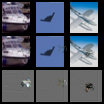
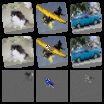
fix v2

diff --git a/main.py b/main.py
@@ -39,12 +39,12 @@ print(f"Selected device: {DEVICE}")
 
 # Training parameters
 BATCH_SIZE = 256
-LR         = 0.001
-EPOCHS     = 50
+LR         = 0.005
+EPOCHS     = 3
 LR_STEPS   = [35, 45]
 
 # Backdoor parameters
-TARGET_CLASS = 0
+TARGET_CLASS = 3
 POISON_RATIO = 0.05
 STRENGTH     = 1.0
 IMAGE_SIZE   = 32
@@ -68,7 +68,7 @@ if __name__ == "__main__":
     )
 
     # Sets optimization
-    optimizer = optim.SGD(model.parameters(), lr = LR)
+    optimizer = optim.SGD(model.parameters(), lr = LR, weight_decay=5e-4)
     criterion = nn.CrossEntropyLoss(reduction = "sum")
 
     # Optimization if IPEX is available
@@ -169,7 +169,7 @@ if __name__ == "__main__":
             data, labels = data.to(DEVICE), labels.to(DEVICE)
             data         = test_transforms(data)
             # Injects backdoor
-            data, labels, _ = backdoor.inject_backdoor(data, labels)
+            data, labels, _ = backdoor.inject_backdoor(data, labels, test = True)
             # Forward pass
             predictions = model(data)
             # Records accuracy
@@ -181,4 +181,4 @@ if __name__ == "__main__":
     print(f"[Test phase] Attack Success Rate {attack_success_rate*100:.2f}%")
 
     # Saves weights
-    torch.save(model.detach().cpu().state_dict(), "checkpoints/backdoored_model.pth")
+    torch.save(model.state_dict(), "checkpoints/backdoored_model.pth")

diff --git a/backdoor/backdoor.py b/backdoor/backdoor.py
@@ -107,13 +107,16 @@ class bait_backdoor():
         _, poison_trigger, _ = self.inpainter(data * (1 - mask), mask.clone())
         return poison_trigger
 
-    def inject_backdoor(self, data, labels):
+    def inject_backdoor(self, data, labels, test = False):
         """
         Injector method.
         """
         with torch.no_grad():
             # Picks data to poison based on poison ratio
-            filter_mask = (torch.rand(len(data)).to(self.device) < self.poison_ratio)
+            if test:
+                filter_mask = torch.ones(len(data)).to(self.device) == 1
+            else:
+                filter_mask = torch.rand(len(data)).to(self.device) < self.poison_ratio
             if filter_mask.sum() == 0:
                 return data, labels
             data_to_poison = data[filter_mask]

diff --git a/data/cifar10.py b/data/cifar10.py
@@ -24,9 +24,10 @@ base_transforms = T.Compose([
 ])
 
 train_transforms = T.Compose([
-    T.RandomCrop(32, padding=4),
+    T.RandomCrop(32, padding=4, fill=0.5),
     T.RandomHorizontalFlip(),
-    T.ColorJitter(brightness=0.1, hue=0.1),
+    T.RandomRotation((0, 15)),
+    T.ColorJitter(brightness=0.3, hue=0.1),
     normalizer
 ])
 
@@ -57,7 +58,7 @@ def setup_dataloaders(batch_size):
     )
     # Sets torchvision dataloaders
     train_loader = DataLoader(train_set, batch_size = batch_size, shuffle = True)
-    test_loader  = DataLoader(test_set, batch_size = batch_size, shuffle = False)
+    test_loader  = DataLoader(test_set, batch_size = 32, shuffle = False)
     print("Loading datasets DONE.")
 
     return train_loader, test_loader